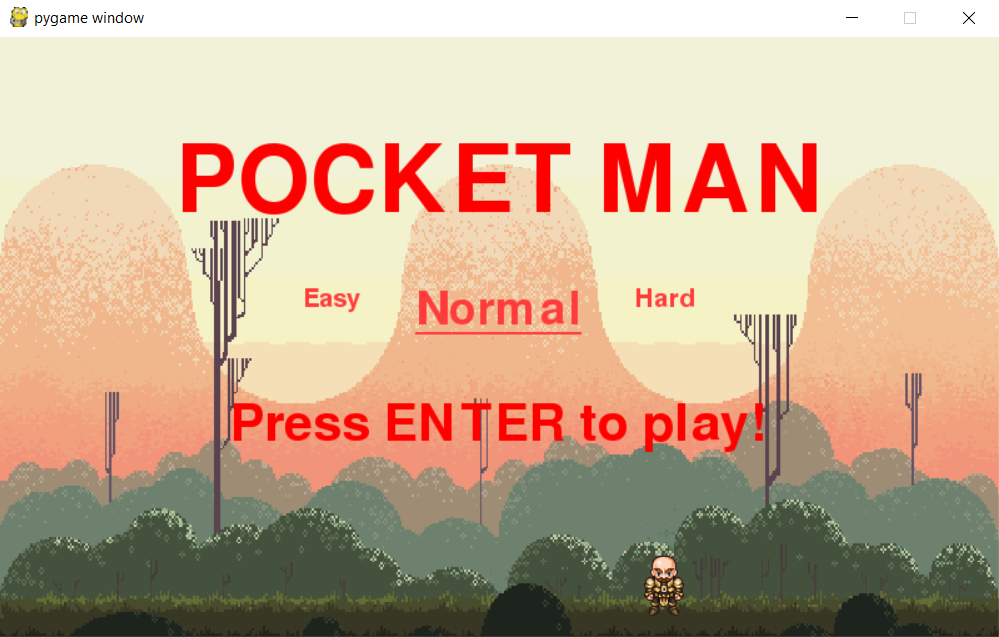
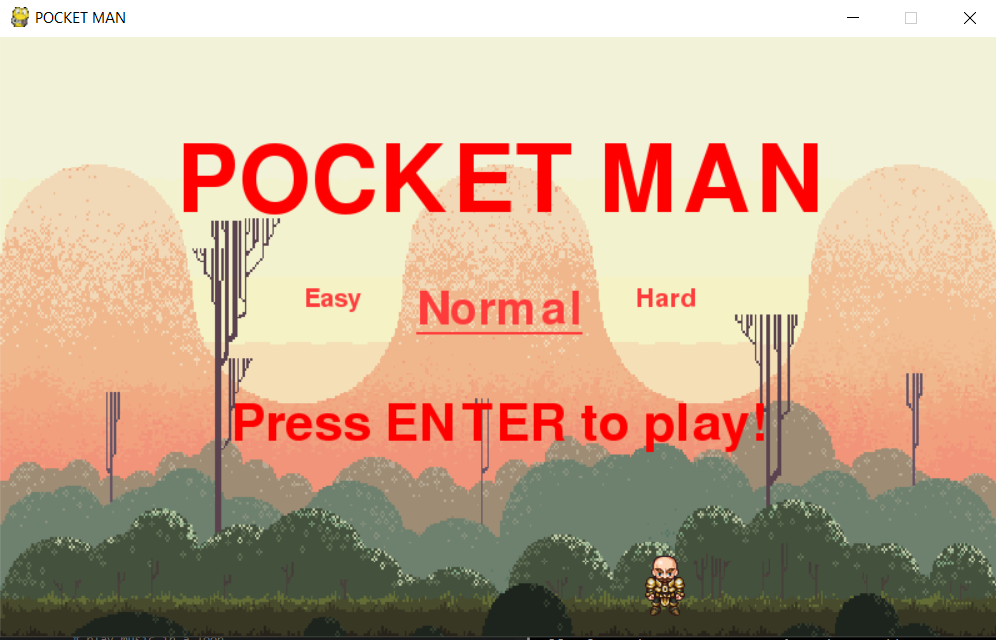
added more screens

diff --git a/game_view.py b/game_view.py
@@ -28,6 +28,8 @@ class View():
         self.standing_player = pygame.image.load('resources/images/player/standing.png').convert_alpha()
 
         pygame.init()
+        pygame.display.set_caption('POCKET MAN')
+
 
 
     """
